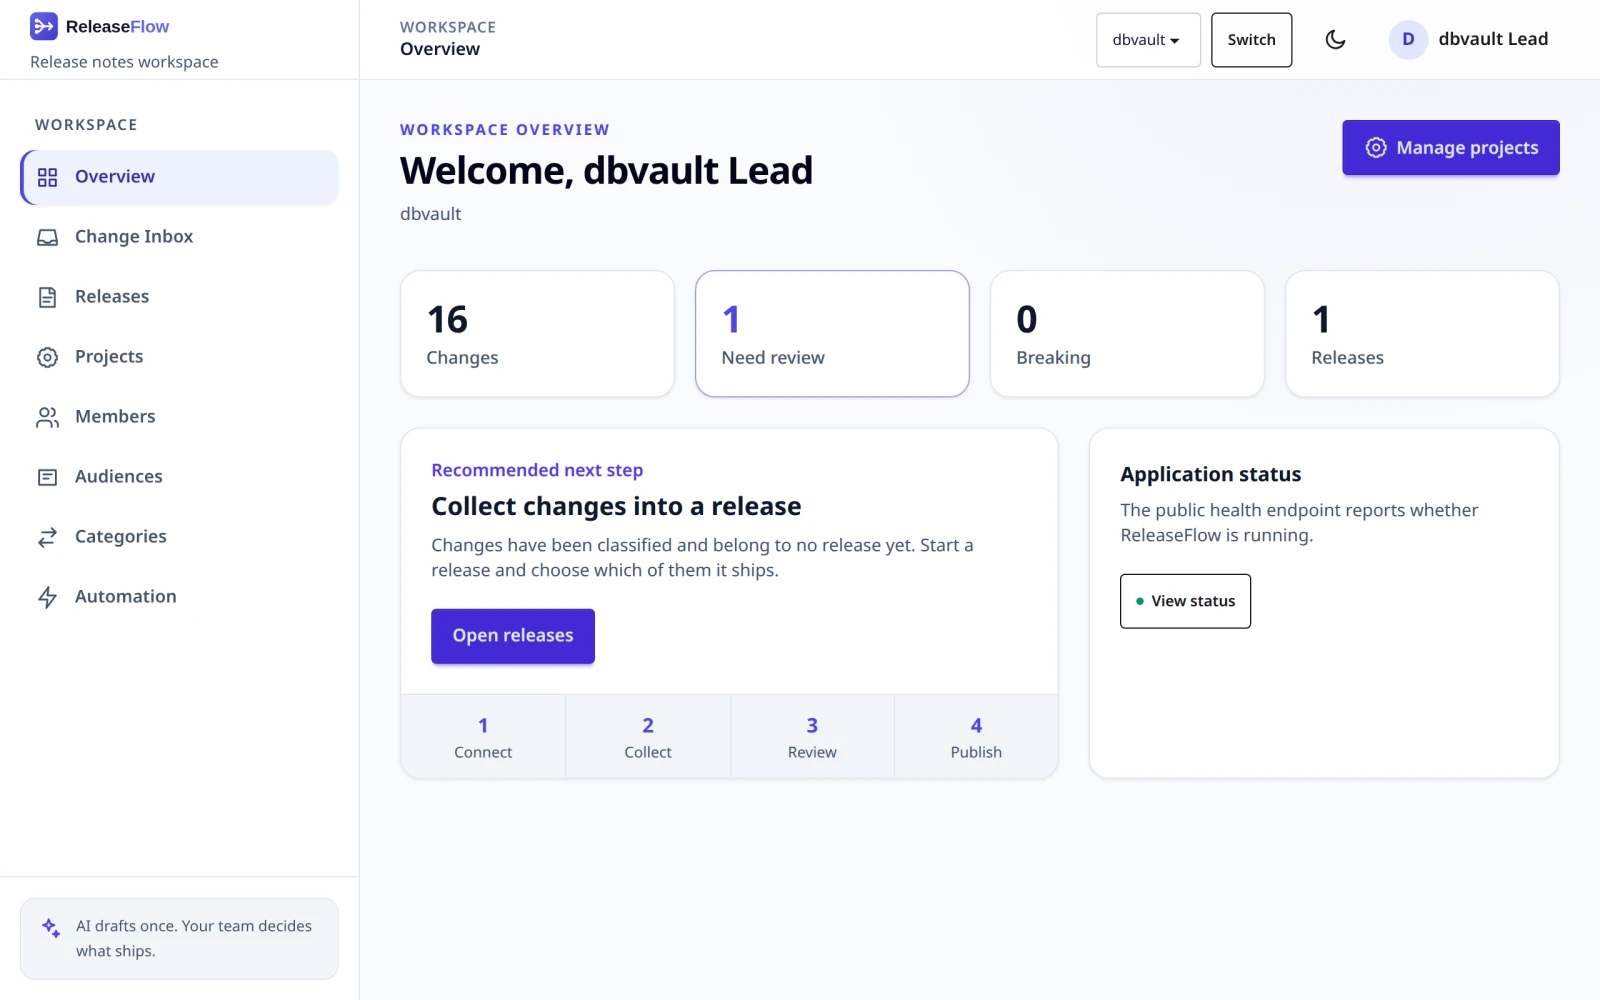
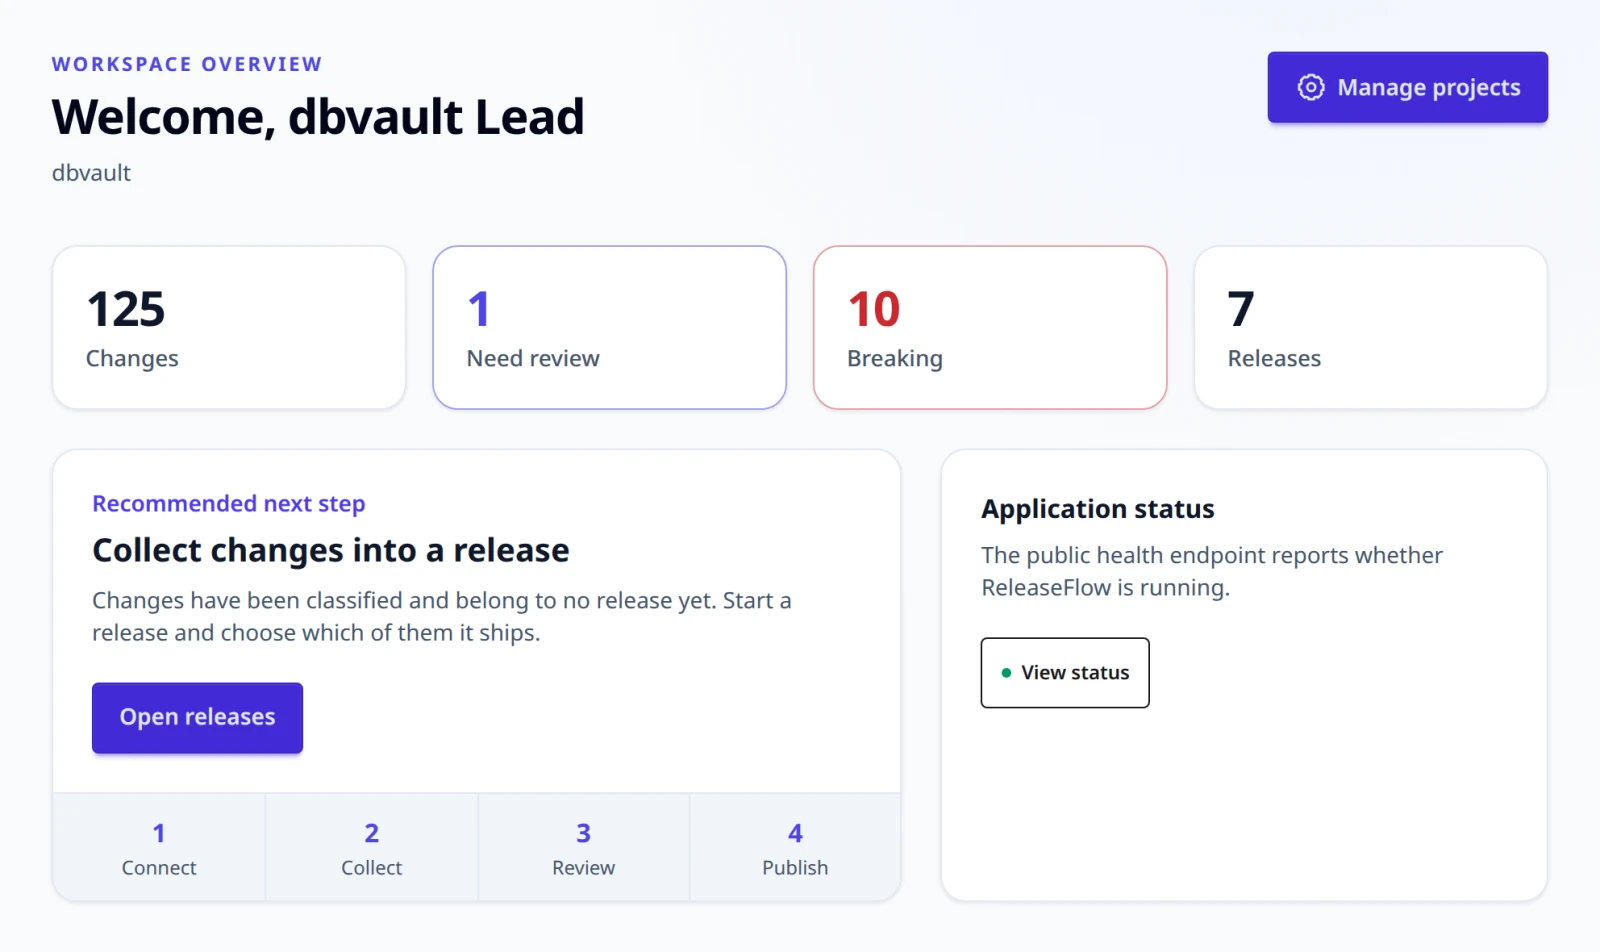
docs: reference the 1.2.0 screenshots

diff --git a/website/src/components/HomepageFeatures/index.js b/website/src/components/HomepageFeatures/index.js
@@ -92,7 +92,7 @@ function ProductShowcase() {
             slug="h-2-release-review"
             alt={translate({
               id: 'homepage.showcase.release.alt',
-              message: 'A release in review with two of its five changes decided, and the preview of its contributor note',
+              message: 'A release in review with five of its eleven changes decided, its previous release, and the preview of its contributor note',
             })}
             title={<Translate id="homepage.showcase.release.title">Release review</Translate>}
             description={

diff --git a/docs/release-notes.md b/docs/release-notes.md
@@ -301,7 +301,7 @@ when every note is ready: otherwise publishing returns
 summary after approval translates the new text. See
 [ADR-0015](adr/0015-multilingual-release-notes.md).
 
-![Seconds after approval: the Vietnamese note is Translating and still shows the untranslated text](assets/release-notes/rn-3-translating.webp)
+![Seconds after approving v1.3.0: the Vietnamese Contributor note is Translating and still shows the untranslated summary, while the release details name v1.2.0 as the previous release and no upgrade guide](assets/release-notes/rn-3-translating.webp)
 
 ![The same note once its translations arrived: the release summary and every change are in Vietnamese, and the glossary was Sent with every translation](assets/release-notes/rn-4-translated.webp)
 
@@ -464,7 +464,7 @@ A release moves through four steps, shown at the top of its page:
    follows its template), then **Publish release**.
 4. **Published.** See [Publishing](#publishing).
 
-![Creating a release, adding every available change, and requesting review](assets/release-notes/rn-6-add-all.webp)
+![Creating v1.3.0 with a summary, no upgrade guide, and v1.2.0 as the previous release, adding every available change, and requesting review: 17 changes wait for a decision](assets/release-notes/rn-6-add-all.webp)
 
 Any member can take every step, so one person can prepare, review, approve, and publish
 the same release. ReleaseFlow records who reviewed each change, who approved, and who
@@ -489,6 +489,8 @@ again. The warning never holds up approval or publication. Notes are written at 
 from the statuses read by then; a read that finishes later writes again the notes that
 still follow their template, until the release is published.
 
+![A release in review whose linked issues were read again: DBV-53, linked from #69, is still In Progress, with Show this status](assets/release-notes/rn-16-issues-at-review.webp)
+
 ### Folding a tracker change into its code change
 
 A Jira or Linear change and the pull request that did the work are one piece of work, and
@@ -509,6 +511,8 @@ A suggestion is evidence only, and nothing is folded on its own. A member choose
 - **Not the same work** dismisses the suggestion: both changes stay, and it is not
   offered again in this release.
 
+![Folding suggestions on a release's Review tab: six tracker changes, each to fold into the code change that names it or that a person confirmed as its duplicate; the one for OPS-17 says #67 would become security, and each offers Fold and reject, Not the same work, and Fold and exclude with a prefilled reason](assets/release-notes/rn-14-folding.webp)
+
 Either fold keeps the issue as linked context of the code change, adding it from the
 tracker change when the code change did not list it yet; an issue added that way is read
 from its tracker as of this review, like the others. Either fold also keeps the work's
@@ -519,6 +523,8 @@ which names the folded change. A code change still Unknown needs a category firs
 `400 invalid_fold_decision`. Each suggestion is decided once,
 with who decided and when; a release returned to draft keeps its decisions. A pair with
 nothing that ties them is not suggested: reject or exclude the tracker change by hand.
+
+![#67 after OPS-17 was folded into it: its decision is Edited by dbvault Lead, and it was marked security when OPS-17 was folded in](assets/release-notes/rn-15-folded-decision.webp)
 
 ```text
 POST /api/projects/{projectId}/releases/{releaseId}/linked-issues/acceptance
@@ -666,7 +672,7 @@ and offers one tab per audience and language with the rendered note, its
 Markdown, a **Copy** button, and a **Download** link for GitHub Releases or a
 changelog. Downloaded files are named `<version>-<audience>-<language>.md`.
 
-![Publishing an approved release: it becomes Published, and a note downloads as Markdown](assets/release-notes/rn-9-publish.webp)
+![Publishing approved v1.3.0: it becomes Published, an immutable snapshot whose glossary went with every translation, and the Contributor note downloads as Markdown](assets/release-notes/rn-9-publish.webp)
 
 A published release cannot be edited, scheduled, reviewed, discarded,
 unpublished, or changed in content, and neither can its notes. Its changes can

diff --git a/docs/changes.md b/docs/changes.md
@@ -76,6 +76,8 @@ Each change keeps the rules that matched, its typed `reviewTriggers`, and its
 `changedFiles`, and the inbox shows them. A review settles a triggered change
 but keeps the trigger as a record.
 
+![A change whose labels bug and enhancement conflict and which touches sensitive files, after review: the AI chose Feature, a person reviewed it, and the card keeps the rules and triggers that applied](assets/changes/c-6-conflicting-labels.webp)
+
 ![A pull request titled feat whose changed files are all documentation: classified as Documentation, and the card says why](assets/changes/c-1-why.webp)
 
 ### Sensitive paths
@@ -118,7 +120,7 @@ code such as `feature` or `security`, in any case), `status`
 `404 project_not_found`. Each change returns its `category` code with its
 `categoryName` and `categoryGroup`, as recorded when it was classified.
 
-![The Change Inbox filtered to Fix: the sync state of each source, then the changes with their category, review state, and summary](assets/changes/c-3-change-inbox.webp)
+![The Change Inbox with its filters, the sync state of its Jira, GitHub, and GitLab sources, then the changes with their category, review state, and summary](assets/changes/c-3-change-inbox.webp)
 
 ![Filtering the Change Inbox to the changes whose context was judged insufficient](assets/changes/c-4-context-filter.webp)
 
@@ -307,7 +309,7 @@ overview no longer counts it among the changes that need review. **Include in re
 again** takes the decision back. The **Releases** filter of the Inbox shows only the
 excluded changes. See [ADR-0033](adr/0033-change-exclusion.md).
 
-![Excluding a change from releases with a reason; the change then carries the Excluded from releases badge](assets/changes/c-13-exclude.webp)
+![A change excluded from releases: the Excluded from releases badge, who excluded it and why, and Include in releases again](assets/changes/c-13-exclude.webp)
 
 A change that belongs to a release, of any status, is removed from it first: take it
 out of the draft, or reject it during review. A change still processing cannot be

diff --git a/docs/sources.md b/docs/sources.md
@@ -269,9 +269,13 @@ What counts as a mention depends on where the key is:
 | Description, commit message | `Spec: APP-12-quartz`: a key followed by a hyphen and a lowercase word | `APP-12-3`, `APP-12-Q`, and `ISO-8601-compliant`, whose prefix is no tracker of the Project |
 | Title, target branch | `APP-3` standing alone | `feature/APP-3-export`: a key followed by a hyphen |
 
+![A GitHub pull request whose title names no issue, linked to DBV-50 through its head branch alone](assets/sources/sr-6-linked-branch.webp)
+
 A Linear team's key is read when the team is connected and kept; a team connected before
 1.2.0 has it read at the first change checked afterwards. A team whose key cannot be read
 links nothing, and the change says so. An issue of another Linear team is not linked.
+
+![A GitLab merge request linked to OPS-16, the Linear issue its title names, shown with the issue's title, type, and status](assets/sources/sr-6-linked-linear.webp)
 
 An issue is read when the change is recorded, and what was read then is what the change
 keeps. A release reads its changes' issues again when its review is requested, so a note
@@ -355,7 +359,7 @@ An item already recorded, by webhook or by an earlier import, is skipped, so
 imports and webhooks never duplicate each other. Imported changes carry an
 **Imported** badge.
 
-![Import last 90 days in the Change Inbox: the import runs until it is completed, and the imported changes appear](assets/sources/sr-9-history-import.webp)
+![The Source sync panel of the Change Inbox: the Jira project is read on a schedule, and each GitHub and GitLab source offers Import last 90 days beside its last import's state and counts](assets/sources/sr-9-source-sync-panel.webp)
 
 A GitHub import stops at the first pull request updated before its window, and
 either import stops after 500 new changes as **Stopped at the limit** with its

diff --git a/website/i18n/vi/docusaurus-plugin-content-docs/current/workspace.md b/website/i18n/vi/docusaurus-plugin-content-docs/current/workspace.md
@@ -85,7 +85,7 @@ coi là đang chờ thay đổi đầu tiên, vì chưa có gì để đưa vào
 
 ![Tổng quan của một Project mới: mọi bộ đếm bằng 0, và bước tiếp theo là kết nối nguồn](assets/workspace/w-5a-connect-a-source.webp)
 
-![Tổng quan về sau, khi đã có release được duyệt: bước tiếp theo là gom các thay đổi chưa thuộc release nào](assets/workspace/w-5b-collect-changes.webp)
+![Tổng quan về sau: 125 thay đổi, một thay đổi cần review, 10 thay đổi phá vỡ tương thích và 7 release; bước tiếp theo là gom các thay đổi chưa thuộc release nào](assets/workspace/w-5b-collect-changes.webp)
 
 Thanh tiêu đề và menu trên di động dùng để chuyển giữa các Project. ReleaseFlow nhớ Project
 gần nhất trong cookie `releaseflow_project`, nên một trang mở ra không kèm `?project=` sẽ

diff --git a/docs/workspace.md b/docs/workspace.md
@@ -89,7 +89,7 @@ to put in the draft.
 
 ![The overview of a new Project: every counter at zero, and the next step is to connect a source](assets/workspace/w-5a-connect-a-source.webp)
 
-![The overview later, with a release approved: the next step is to collect the changes not yet in a release](assets/workspace/w-5b-collect-changes.webp)
+![The overview later: 125 changes, one needing review, 10 breaking, and 7 releases; the next step is to collect the changes not yet in a release](assets/workspace/w-5b-collect-changes.webp)
 
 The header and mobile navigation switch between Projects. ReleaseFlow remembers the
 last one in the `releaseflow_project` cookie, so a page reached without `?project=`
